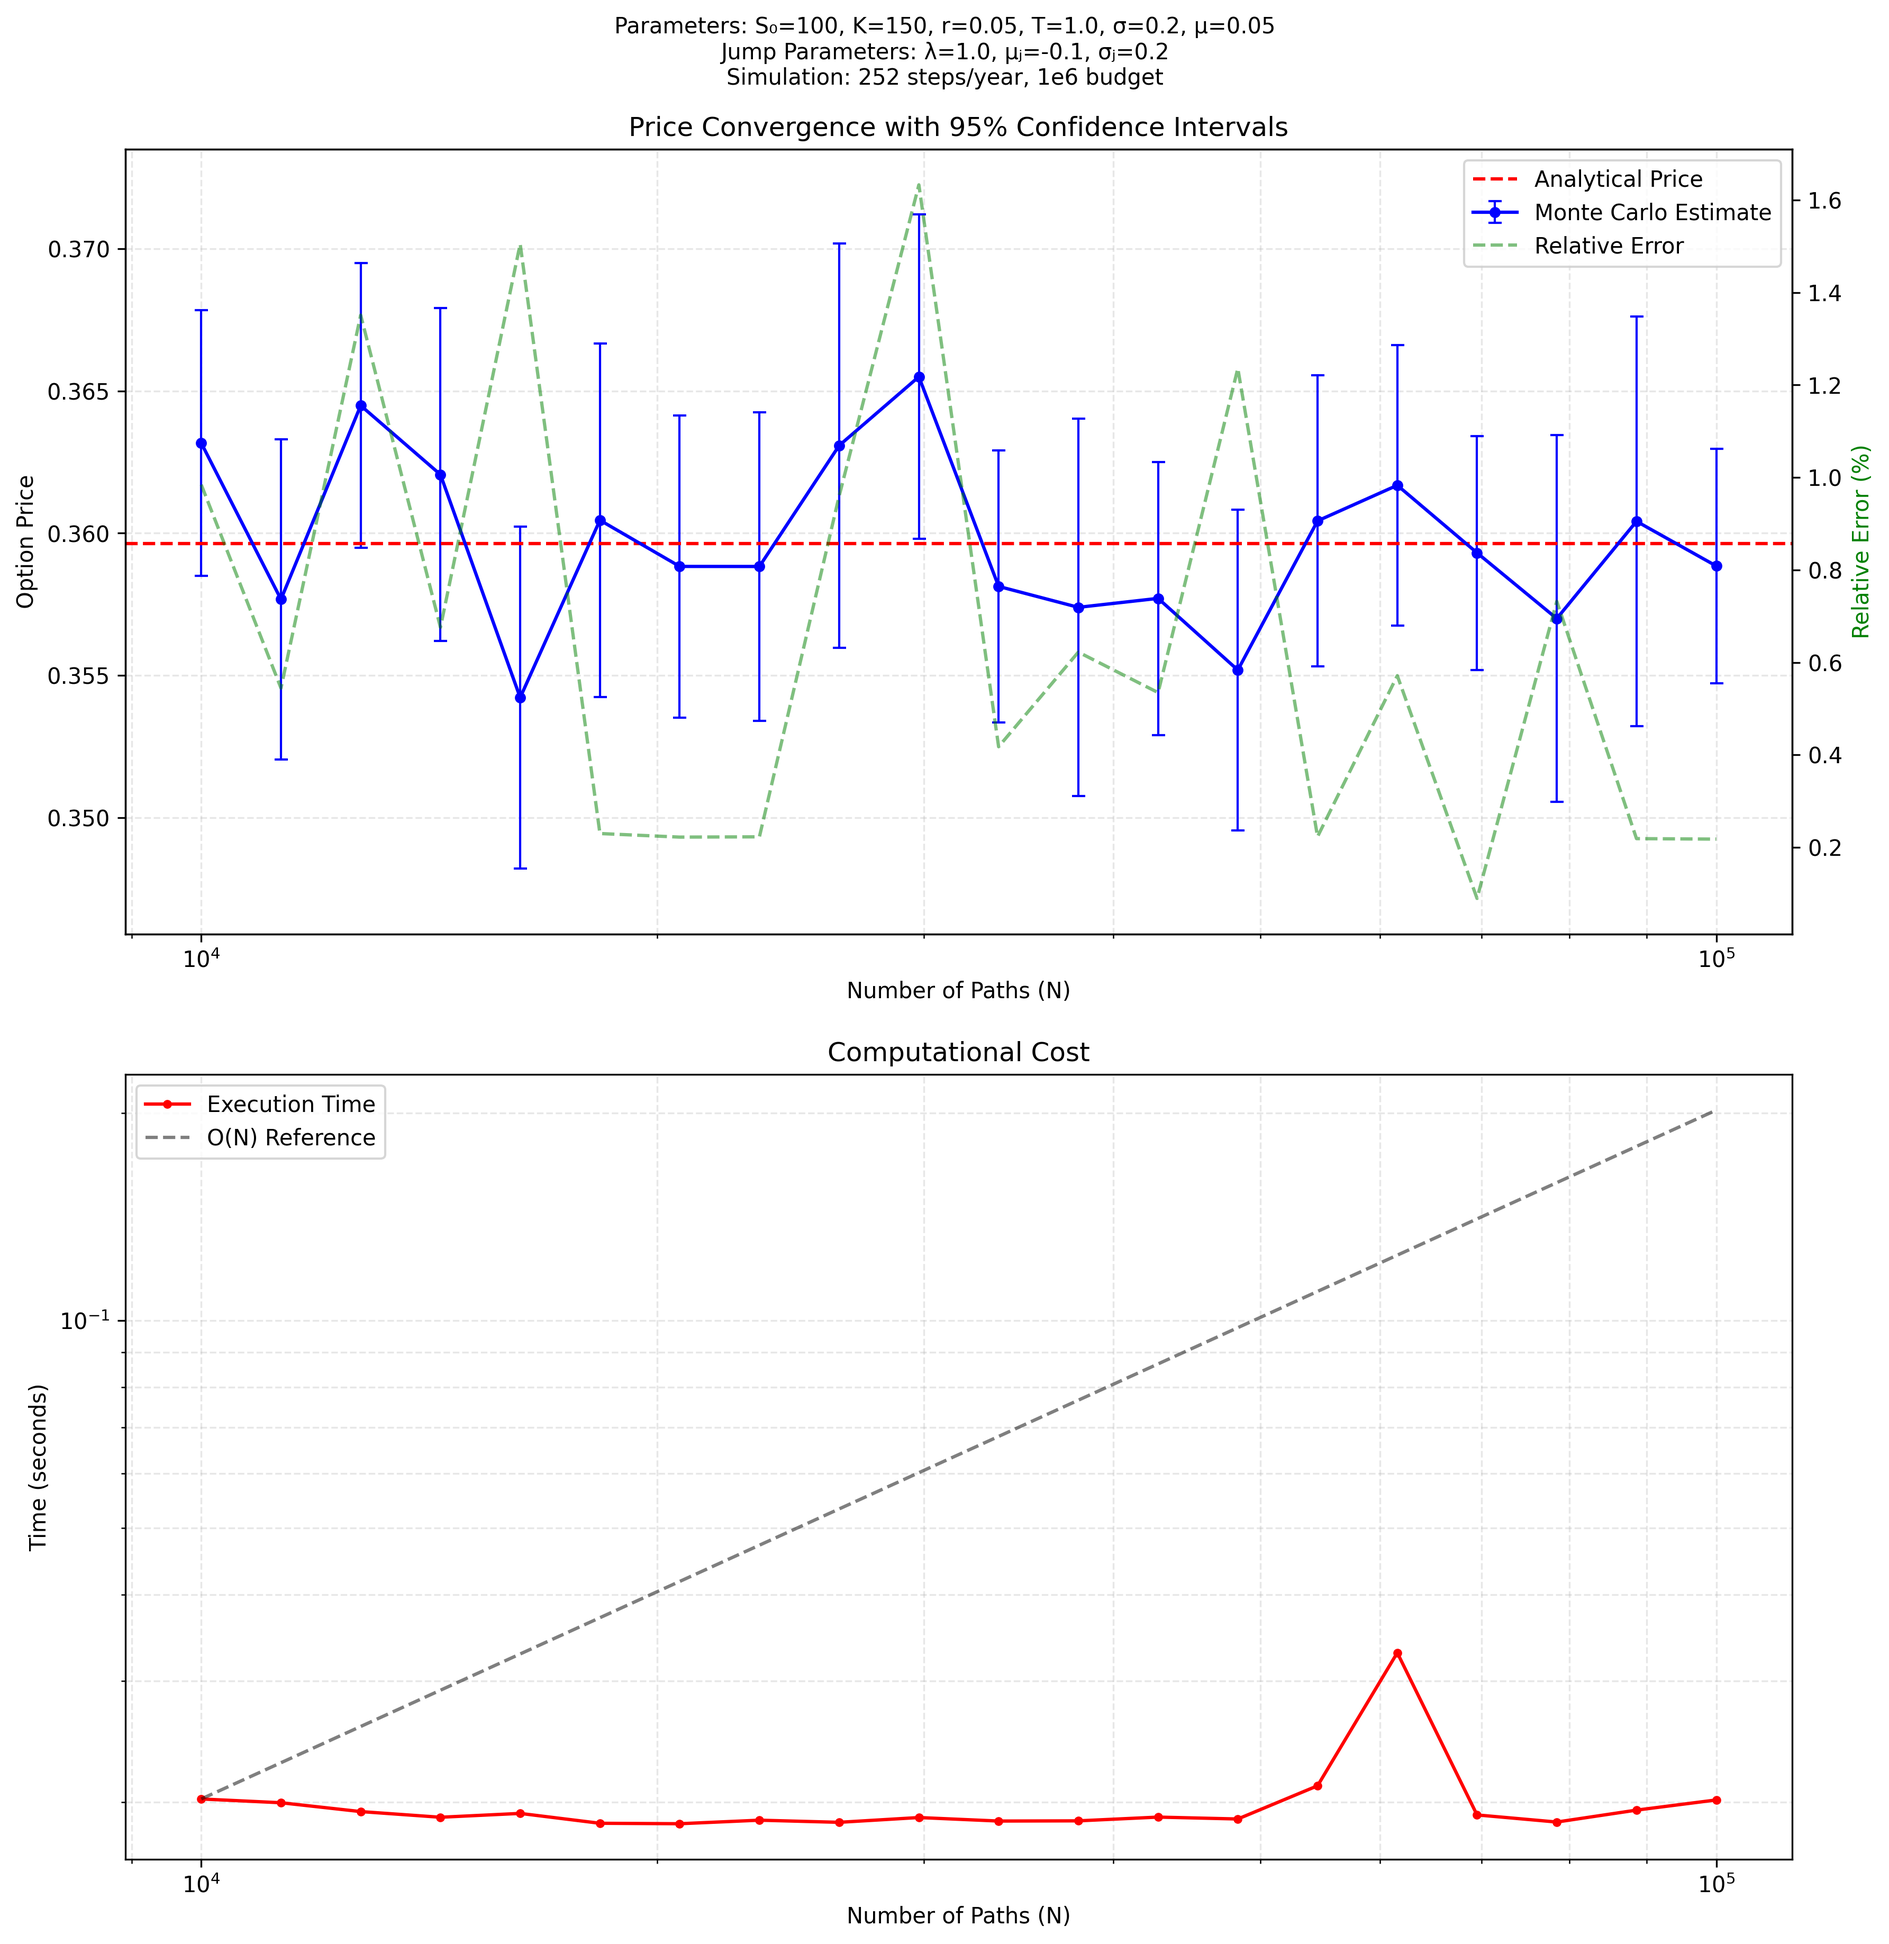
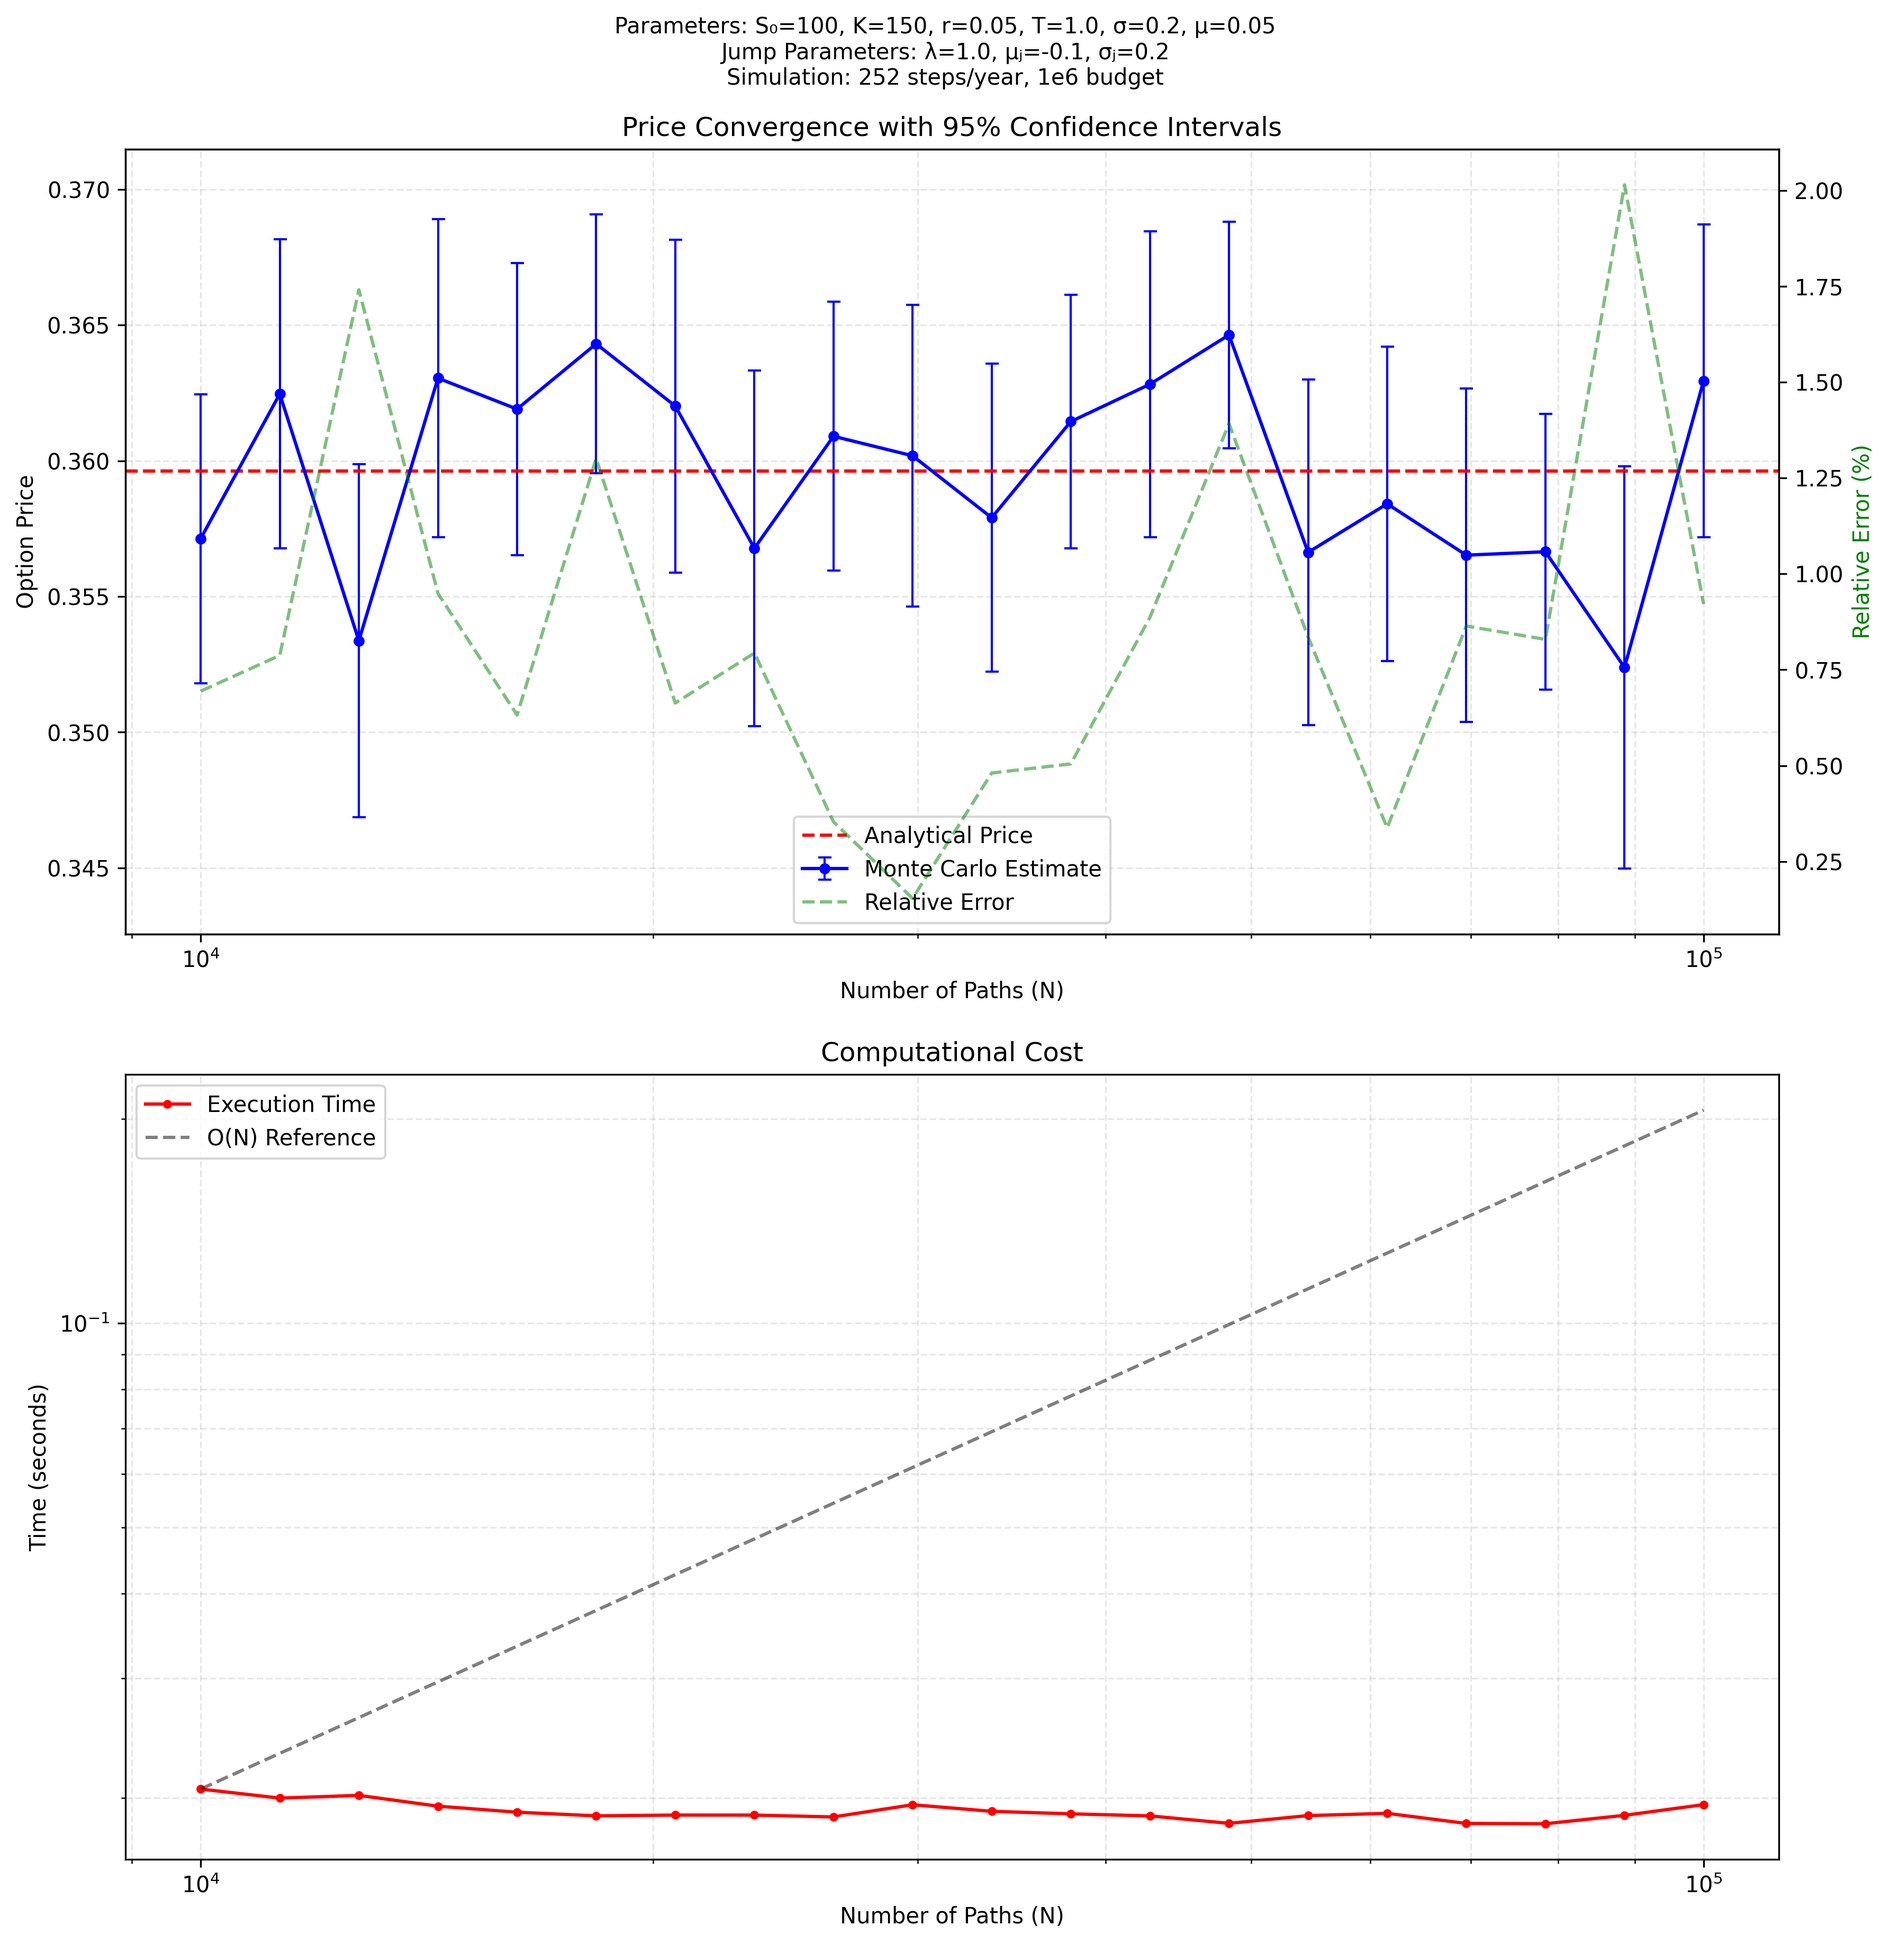
importance sampling for the gbm case

diff --git a/importance_sampler.py b/importance_sampler.py
@@ -1,0 +1,139 @@
+from mertonjdm import MertonJDM, SimulationResults
+import numpy as np
+from scipy.optimize import minimize
+from dataclasses import dataclass
+from typing import Tuple
+
+
+@dataclass
+class ImportanceSamplingResults:
+    standard_mc_price: float
+    standard_mc_stderr: float
+    is_price: float
+    is_stderr: float
+    variance_reduction: float
+
+
+class ImportanceSampler:
+    def __init__(self, model: MertonJDM) -> None:
+        self.model = model
+
+    def simulate_terminal_paths_standard(self, num_paths: int) -> np.ndarray:
+        """Standard Monte Carlo simulation for terminal values"""
+        return self.model.simulate_terminal_paths(num_paths)
+
+    def simulate_terminal_paths_importance(self, num_paths: int, lambda_param: float):
+        """
+        Importance sampling simulation with modified drift
+        Returns terminal log values and likelihood ratios
+        """
+        # Generate standard normal random variables
+        Z = np.random.normal(0, 1, num_paths)
+
+        # Brownian motion with modified drift
+        W_T = Z * np.sqrt(self.model.T)
+
+        # Generate Poisson random variables for jump counts
+        N = np.random.poisson(self.model.lambda_j * self.model.T, num_paths)
+
+        # Handle jumps
+        sum_Y = np.zeros(num_paths)
+        jump_paths = N > 0
+        positive_jump_paths = N[jump_paths]
+        sum_Y[jump_paths] = np.random.normal(
+            loc=self.model.mu_j * positive_jump_paths,
+            scale=np.sqrt(positive_jump_paths) * self.model.sigma_j,
+        )
+
+        # Modified risk-neutral drift for importance sampling
+        risk_neutral_drift = (
+            lambda_param
+            - 0.5 * self.model.sigma**2
+            - self.model.lambda_j
+            * (np.exp(self.model.mu_j + 0.5 * self.model.sigma_j**2) - 1)
+        )
+
+        drift = risk_neutral_drift * self.model.T
+        diffusion = self.model.sigma * W_T + sum_Y
+        X_T = np.log(self.model.S0) + drift + diffusion
+
+        # Calculate likelihood ratio
+        likelihood_ratios = np.exp(
+            -(lambda_param - self.model.r) * W_T / self.model.sigma
+            - 0.5
+            * ((lambda_param - self.model.r) / self.model.sigma) ** 2
+            * self.model.T
+        )
+
+        return X_T, likelihood_ratios
+
+    def optimize_lambda(self, num_paths: int):
+        """
+        Optimize the lambda parameter for importance sampling
+        """
+
+        def objective(lambda_param):
+            result = self.compare_methods(num_paths, lambda_param[0])
+            return -result.variance_reduction
+
+        # Set bounds around risk-free rate
+        lambda_lower = max(0.001, self.model.r - 2 * self.model.sigma)
+        lambda_upper = self.model.r + 2 * self.model.sigma
+
+        # Try multiple starting points
+        best_result = float("inf")
+        best_lambda = None
+        starting_points = np.linspace(lambda_lower, lambda_upper, 5)
+
+        for start_point in starting_points:
+            result = minimize(
+                objective,
+                x0=[start_point],
+                bounds=[(lambda_lower, lambda_upper)],
+                method="L-BFGS-B",
+            )
+
+            if result.fun < best_result:
+                best_result = result.fun
+                best_lambda = result.x[0]
+
+        final_result = self.compare_methods(num_paths, best_lambda)
+        return best_lambda, final_result.variance_reduction
+
+    def compare_methods(self, num_paths, lambda_param) -> ImportanceSamplingResults:
+        """
+        Compare standard MC with importance sampling
+        """
+        # Standard Monte Carlo
+        terminal_values_std = self.simulate_terminal_paths_standard(num_paths)
+        payoffs_std = self.model.compute_call_payoff(terminal_values_std, self.model.K)
+        price_std = np.exp(-self.model.r * self.model.T) * np.mean(payoffs_std)
+        stderr_std = (
+            np.std(payoffs_std)
+            * np.exp(-self.model.r * self.model.T)
+            / np.sqrt(num_paths)
+        )
+
+        # Importance Sampling
+        terminal_values_is, lr = self.simulate_terminal_paths_importance(
+            num_paths, lambda_param
+        )
+        payoffs_is = self.model.compute_call_payoff(terminal_values_is, self.model.K)
+        weighted_payoffs = payoffs_is * lr
+        price_is = np.exp(-self.model.r * self.model.T) * np.mean(weighted_payoffs)
+        stderr_is = (
+            np.std(weighted_payoffs)
+            * np.exp(-self.model.r * self.model.T)
+            / np.sqrt(num_paths)
+        )
+
+        # Calculate variance reduction ratio
+        var_reduction = (stderr_std / stderr_is) ** 2
+
+        return ImportanceSamplingResults(
+            standard_mc_price=price_std,
+            standard_mc_stderr=stderr_std,
+            is_price=price_is,
+            is_stderr=stderr_is,
+            variance_reduction=var_reduction,
+        )
